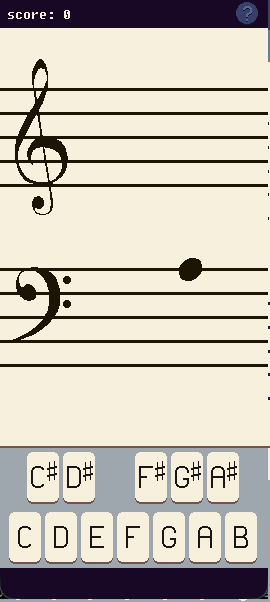
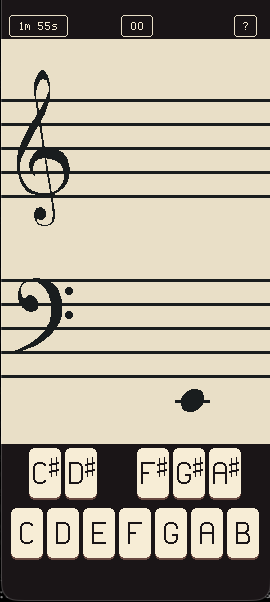
made the top buttons

Changed region(s): [[0.0, 0.0, 1.0, 1.0]]

diff --git a/notepractice/notepractice.go b/notepractice/notepractice.go
@@ -28,8 +28,8 @@ const (
 
 const scale = 1
 
-var timerRect = Rect{pos: Vector2{X: 12, Y: 12}, size: Vector2{X: unit * 2, Y: unit}}
-var scoreRect = Rect{pos: Vector2{X: unit * 3.6, Y: 16}, size: Vector2{X: unit * 2, Y: unit}}
+var timerRect = Rect{pos: Vector2{X: 12, Y: 12}, size: Vector2{X: unit * 2, Y: unit + 4}}
+var scoreRect = Rect{pos: Vector2{X: unit * 3.6, Y: 16}, size: Vector2{X: unit * 2, Y: unit + 4}}
 
 type Game struct {
 	images map[string]*ebiten.Image
@@ -63,7 +63,6 @@ func NewGame() *Game {
 			"bassClef":            LoadImage("res/bass-clef.png"),
 			"line":                LoadImage("res/line.png"),
 			"extraLine":           LoadImage("res/extra-line.png"),
-			"guideButton":         LoadImage("res/guide-button.png"),
 			"noteA":               LoadImage("res/noteA.png"),
 			"noteB":               LoadImage("res/noteB.png"),
 			"noteC":               LoadImage("res/noteC.png"),
@@ -77,13 +76,16 @@ func NewGame() *Game {
 			"guideBass":           LoadImage("res/guide-bass.png"),
 			"text-source":         LoadImage("res/text-source.png"),
 			"numbers":             LoadImage("res/numbers.png"),
+			"timeButton":          LoadImage("res/time-button.png"),
+			"scoreButton":         LoadImage("res/score-button.png"),
+			"guideButtonMin":      LoadImage("res/guide-button-min.png"),
 		},
 		inputHandler: NewInputHandler(),
 		session:      NewSession(),
 		buttons:      NewButtons(),
 		showGuide:    false,
 		mode:         "menu",
-		lastScore:    55,
+		lastScore:    0,
 	}
 
 	g.session.reset()
@@ -123,12 +125,12 @@ func (g *Game) Update() error {
 				g.showGuide = !g.showGuide
 			}
 			if isPointInRect(g.inputHandler.pos, timerRect.pos.X, timerRect.pos.Y, timerRect.size.X, timerRect.size.Y) {
-				g.session.reset()
-				g.buttons.reset(g.session)
-			}
-			if isPointInRect(g.inputHandler.pos, scoreRect.pos.X, scoreRect.pos.Y, scoreRect.size.X, scoreRect.size.Y) {
 				g.mode = menuMode
 				g.lastScore = g.session.score
+			}
+			if isPointInRect(g.inputHandler.pos, scoreRect.pos.X, scoreRect.pos.Y, scoreRect.size.X, scoreRect.size.Y) {
+				g.session.reset()
+				g.buttons.reset(g.session)
 			}
 		}
 		if g.inputHandler.releasedInput && g.clickTimer <= 0 {
@@ -182,20 +184,22 @@ func (g *Game) Draw(screen *ebiten.Image) {
 
 	// drawHeader
 	g.drawRect(screen, Vector2{}, Vector2{X: screenWidth, Y: 40}, darkColor)
-	// g.drawImage(screen, "guideButton", Vector2{X: 232, Y: 12})
-	g.drawText(screen, "?", Vector2{X: 232, Y: 22}, beigeColor, 1)
+	// g.drawText(screen, "?", Vector2{X: 232, Y: 22}, beigeColor, 1)
+	g.drawImage(screen, "guideButtonMin", Vector2{X: 234, Y: 15})
 
 	// drawScore
 	timeValue := g.session.timer
 	if timeValue == 120 {
 		timeValue = 119
 	}
-	g.drawText(screen, fmt.Sprintf("%dm %2ds", int(timeValue/60), int(timeValue)%60), Vector2{X: margin, Y: 22}, beigeColor, 1)
+	g.drawImage(screen, "timeButton", Vector2{X: 9, Y: 15})
+	g.drawText(screen, fmt.Sprintf("%dm %2ds", int(timeValue/60), int(timeValue)%60), Vector2{X: margin, Y: 21}, beigeColor, 1)
 	var offsetScoreText float64 = 0
 	if g.session.score > 9 {
 		offsetScoreText = -4
 	}
-	g.drawText(screen, fmt.Sprintf("%d", g.session.score), Vector2{X: unit*4 + 4 + offsetScoreText, Y: 22}, beigeColor, 1)
+	g.drawImage(screen, "scoreButton", Vector2{X: 123, Y: 15})
+	g.drawText(screen, fmt.Sprintf("%d", g.session.score), Vector2{X: unit*4 + 4 + offsetScoreText, Y: 21}, beigeColor, 1)
 
 	// treble
 	g.drawStave(screen, unit*3+offsetY)
